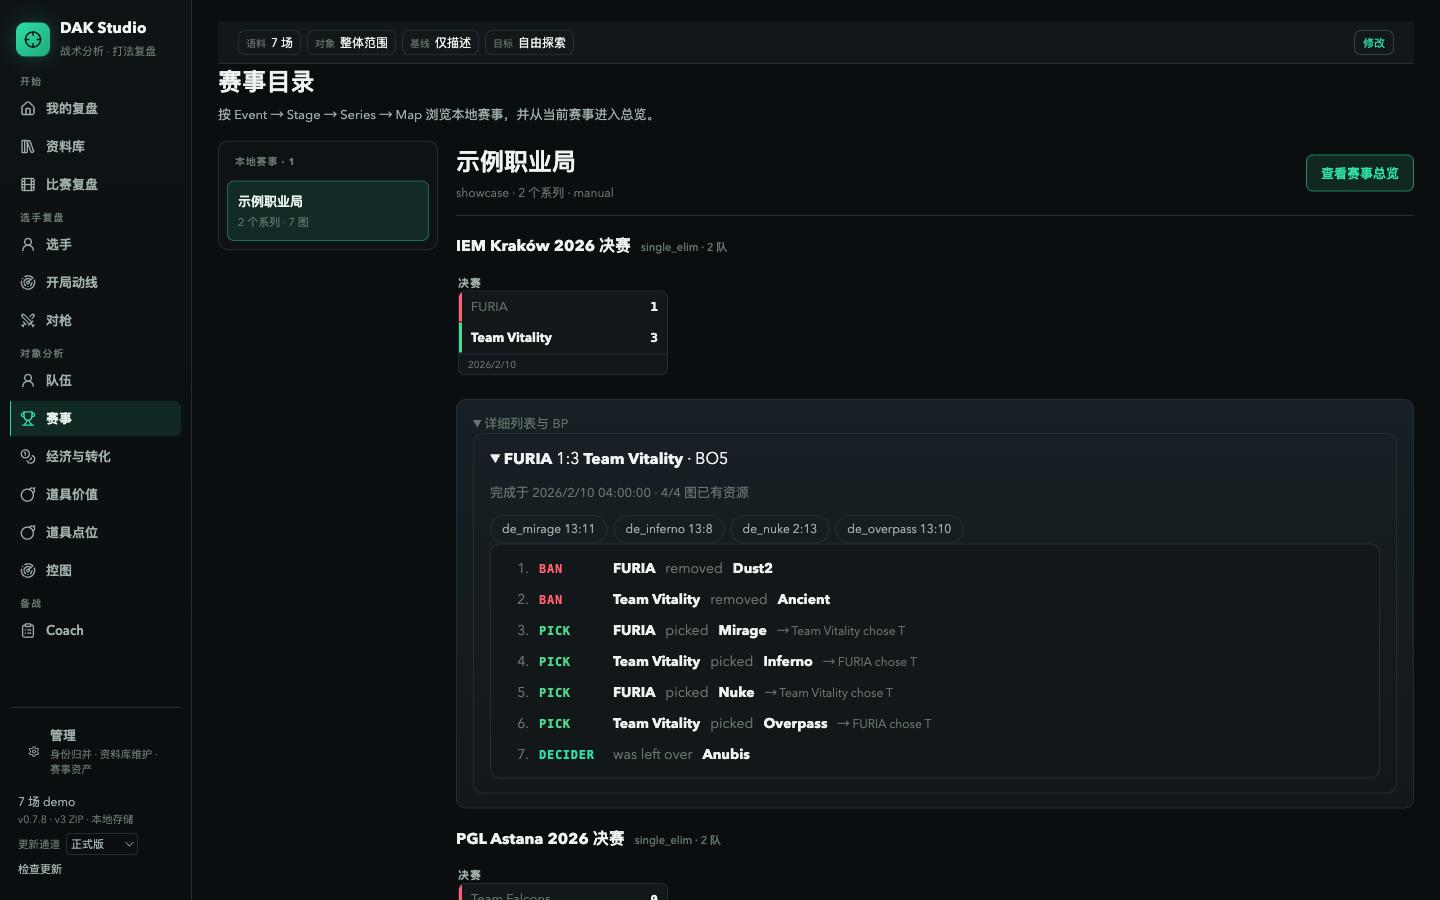
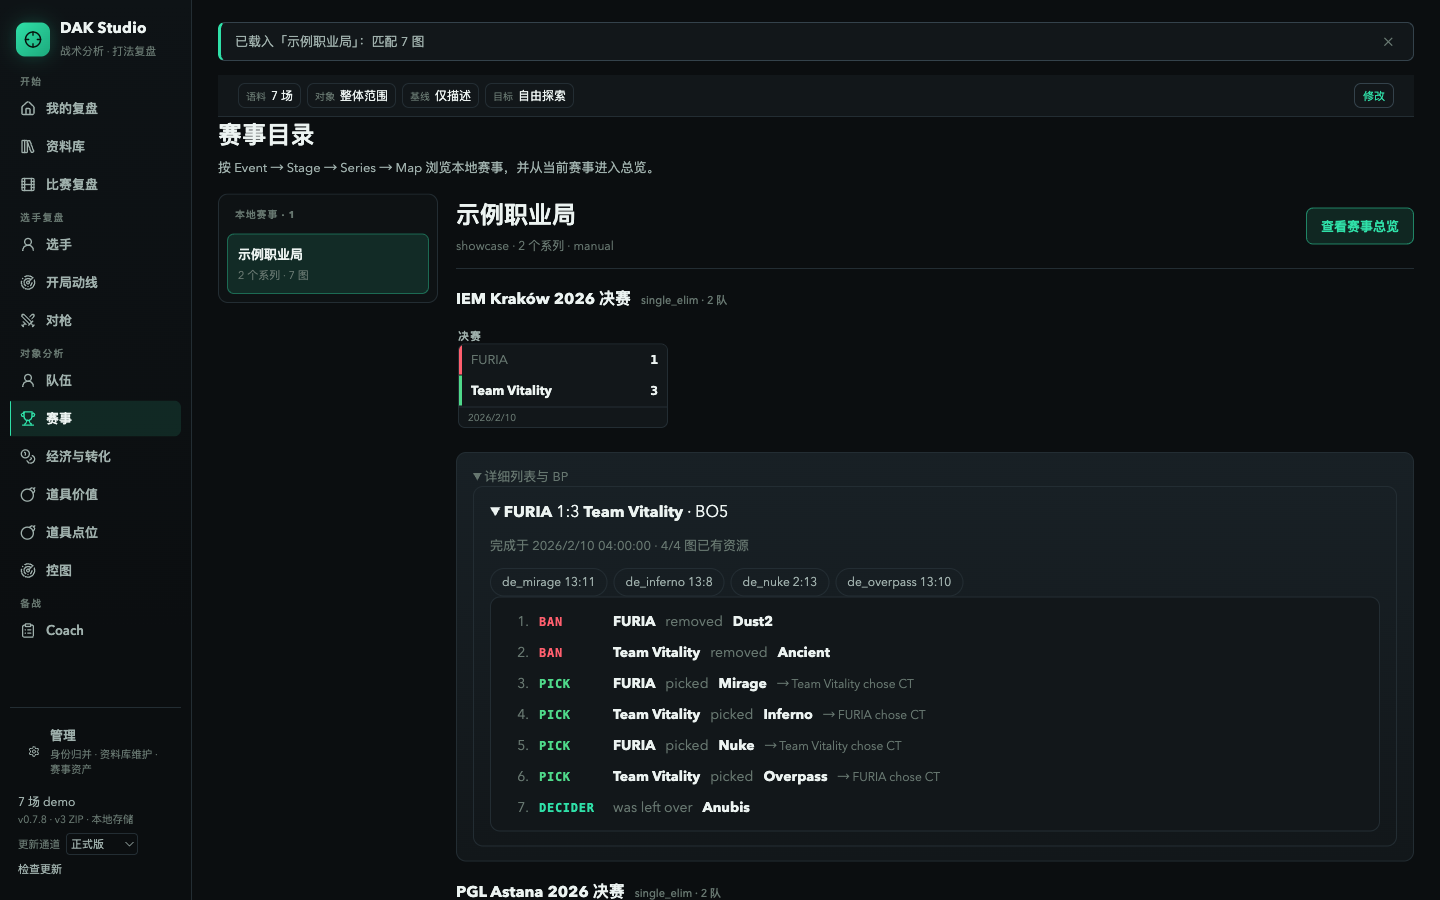
fix(studio): 反向派生 PICK 对手选边

diff --git a/apps/dak-studio/src/lib/series.ts b/apps/dak-studio/src/lib/series.ts
@@ -161,6 +161,28 @@ export function sortEntriesByVeto(entries: StudioDemoEntry[], veto: SeriesVeto):
   );
 }
 
+export function oppositeSide(side: "t" | "ct"): "t" | "ct" {
+  return side === "t" ? "ct" : "t";
+}
+
+function opposingTeamKey(teamKey: SeriesVetoStep["teamKey"]): SeriesVetoStep["teamKey"] {
+  return teamKey === "teamA" ? "teamB" : teamKey === "teamB" ? "teamA" : null;
+}
+
+/**
+ * 将原始 BP step 规范为用户可见的选边事实。
+ * PICK 的 `side` 记录选图方从哪一侧开局，因此展示对手选边时必须同时换队伍和阵营。
+ * DECIDER 没有固定的选图方/对手关系，保留原始记录。
+ */
+export function deriveSideChoice(step: SeriesVetoStep): SeriesVeto["sideChoices"][number] | null {
+  if (step.side == null) return null;
+  return {
+    mapName: step.mapName,
+    teamKey: step.actionType === "pick" ? opposingTeamKey(step.teamKey) : step.teamKey,
+    side: step.actionType === "pick" ? oppositeSide(step.side) : step.side
+  };
+}
+
 export function deriveVetoSummary(steps: SeriesVetoStep[]): Pick<SeriesVeto, "maps" | "sideChoices"> {
   return {
     maps: {
@@ -173,15 +195,8 @@ export function deriveVetoSummary(steps: SeriesVetoStep[]): Pick<SeriesVeto, "ma
       decider: steps.find((step) => step.actionType === "decider")?.mapName ?? null
     },
     sideChoices: steps
-      .filter((step): step is SeriesVetoStep & { side: "t" | "ct" } => step.side != null)
-      .map((step) => ({
-        mapName: step.mapName,
-        // PICK 步骤的 actor 是选图方；按赛事 BP 规则由对手选择该图的开局阵营。
-        teamKey: step.actionType === "pick"
-          ? step.teamKey === "teamA" ? "teamB" : step.teamKey === "teamB" ? "teamA" : null
-          : step.teamKey,
-        side: step.side
-      }))
+      .map(deriveSideChoice)
+      .filter((choice): choice is SeriesVeto["sideChoices"][number] => choice != null)
   };
 }
 

diff --git a/apps/dak-studio/src/lib/series.test.ts b/apps/dak-studio/src/lib/series.test.ts
@@ -83,15 +83,27 @@ describe("series grouping", () => {
     expect(veto.maps.decider).toBeTruthy();
   });
 
-  it("PICK 地图由选图方的对手选择开局阵营", () => {
+  it("PICK 记录选图方 T 开时，teamA/teamB 的对手均展示为选择 CT", () => {
     const steps = [
-      { stepOrder: 1, actionType: "pick" as const, teamKey: "teamA" as const, mapName: "de_nuke", side: "ct" as const },
+      { stepOrder: 1, actionType: "pick" as const, teamKey: "teamA" as const, mapName: "de_nuke", side: "t" as const },
       { stepOrder: 2, actionType: "pick" as const, teamKey: "teamB" as const, mapName: "de_mirage", side: "t" as const }
     ];
 
     expect(deriveVetoSummary(steps).sideChoices).toEqual([
       { mapName: "de_nuke", teamKey: "teamB", side: "ct" },
-      { mapName: "de_mirage", teamKey: "teamA", side: "t" }
+      { mapName: "de_mirage", teamKey: "teamA", side: "ct" }
+    ]);
+  });
+
+  it("PICK 记录选图方 CT 开时，对手展示为选择 T；decider 不反向", () => {
+    const steps = [
+      { stepOrder: 1, actionType: "pick" as const, teamKey: "teamA" as const, mapName: "de_nuke", side: "ct" as const },
+      { stepOrder: 2, actionType: "decider" as const, teamKey: "teamB" as const, mapName: "de_mirage", side: "ct" as const }
+    ];
+
+    expect(deriveVetoSummary(steps).sideChoices).toEqual([
+      { mapName: "de_nuke", teamKey: "teamB", side: "t" },
+      { mapName: "de_mirage", teamKey: "teamB", side: "ct" }
     ]);
   });
 });

diff --git a/apps/dak-studio/src/views/BpView.tsx b/apps/dak-studio/src/views/BpView.tsx
@@ -1,4 +1,5 @@
 import type { SeriesVeto } from "@cs2dak/contract";
+import { deriveSideChoice } from "../lib/series";
 
 const ACTION_LABEL: Record<string, string> = { ban: "BAN", pick: "PICK", decider: "DECIDER" };
 const ACTION_VERB: Record<string, string> = { ban: "removed", pick: "picked", decider: "was left over" };
@@ -23,14 +24,9 @@ export function BpView({ veto, matchUrl }: { veto: SeriesVeto; matchUrl?: string
     <ol className="stu-bp-flow">
       {veto.steps.map((step) => {
         const actor = teamName(veto, step.teamKey);
-        const sideChoice = step.actionType === "pick"
-          ? veto.sideChoices.find((row) => row.mapName === step.mapName)
-          : undefined;
-        // 兼容旧赛事包中 sideChoices.teamKey 曾被写成选图方：展示层按 PICK 规则明确取对手。
-        const sideChooserKey = step.actionType === "pick"
-          ? step.teamKey === "teamA" ? "teamB" : step.teamKey === "teamB" ? "teamA" : null
-          : sideChoice?.teamKey ?? null;
-        const sideChooser = sideChoice ? teamName(veto, sideChooserKey) : null;
+        // sideChoices 是兼容缓存；始终按原始 steps 重新派生，旧已导入赛事也立即纠正。
+        const sideChoice = deriveSideChoice(step);
+        const sideChooser = sideChoice ? teamName(veto, sideChoice.teamKey) : null;
         return (
           <li key={step.stepOrder} className="stu-bp-step">
             <span className="stu-bp-order">{step.stepOrder}.</span>

diff --git a/apps/dak-studio/src/components/VetoInputDialog.tsx b/apps/dak-studio/src/components/VetoInputDialog.tsx
@@ -1,6 +1,6 @@
 import { useMemo, useState } from "react";
 import type { SeriesFormat, SeriesVeto, SeriesVetoStep } from "@cs2dak/contract";
-import { deriveVetoSummary, mapDisplayName, SERIES_MAP_POOL, vetoSkeleton } from "../lib/series";
+import { deriveVetoSummary, mapDisplayName, oppositeSide, SERIES_MAP_POOL, vetoSkeleton } from "../lib/series";
 
 type TeamKey = "teamA" | "teamB";
 type Side = "t" | "ct";
@@ -161,8 +161,8 @@ export function VetoInputDialog({
               {step.actionType === "pick" && step.teamKey && (
                 <SidePick
                   label={`→ ${teamName(step.teamKey === "teamA" ? "teamB" : "teamA")} 选边`}
-                  side={step.side}
-                  onChange={(side) => updateStep(index, { side })}
+                  side={step.side ? oppositeSide(step.side) : null}
+                  onChange={(side) => updateStep(index, { side: side ? oppositeSide(side) : null })}
                 />
               )}
               {step.actionType === "decider" && (
